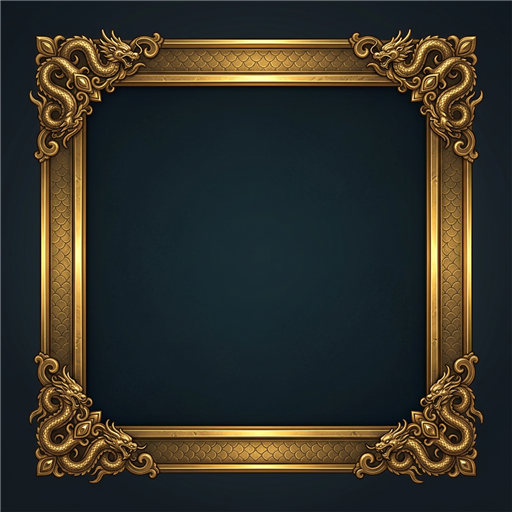
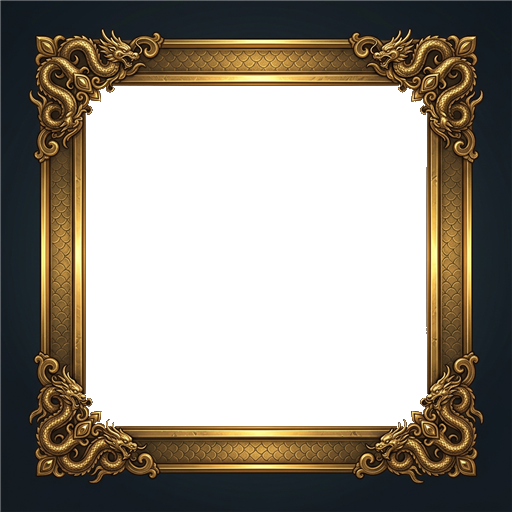
窓の枠と中身のあいだの黒い帯を消す（金枠の内側を透明に抜く）
実機指摘「中の四角と枠の間に不自然な黒が入る」。原因は色の合わせ方ではなく
frame_gold.png そのものだった。金の飾りの内側に不透明な暗色 rgb(19,32,37) が
焼き込まれており（実測：元画像 x=90〜150）、9-slice で 150→28px に縮むと
金の内側に約11pxの暗い帯になる。その内側から本体の地色 #1a2e33（上端は暖色の
光で約(44,60,60)）が始まるため、別の色どうしが出会って「もう一枚の枠」に見えていた。

・画像：中心から暗い画素だけを辿る塗りつぶしで飾りの内側を透明に抜いた。
  金の飾りが壁になり外へは漏れていないことを実測で確認（範囲 x[85,427] y[85,427]、
  左辺のアルファは x=85 まで255・x=90 から0）。飾りのきわは暗さに応じて薄めた。
・CSS：地の塗りを border-box まで広げた。padding-box のままだと抜いた輪に
  背後の暗幕が透けて逆に悪化する。
・画像URLに ?r2 を付与（index.html の ?v= は CSS 内の url には効かないため）。

枠を使うのは .navpop だけ＝ゲーム中の全モーダル窓に効く。派生の .news-clip は
border 短縮形で border-image を打ち消しており無影響（算出値で確認）。

diff --git a/index.html b/index.html
@@ -15,7 +15,7 @@
 <link rel="apple-touch-icon" href="icon.svg">
 <link rel="manifest" href="manifest.json">
 <title>ミミのドラゴンレース紀行 ／ 転生したらバニーガールだった私の汎用スキル《ぱほぱほ》だけがレベルアップな件</title>
-<link rel="stylesheet" href="style.css?v=20260804k">
+<link rel="stylesheet" href="style.css?v=20260804l">
 </head>
 <body>
 <header id="header">
@@ -63,139 +63,139 @@
   8) sim_tools.js      — debug/balance harness
   9) main.js           — entry point, wires everything
 -->
-<script src="js/utils.js?v=20260804k"></script>
+<script src="js/utils.js?v=20260804l"></script>
 <!-- ✨ ミニアニメ（傑作☆3／モール制覇／開花の瞬間に光だけ乗せる・素材が無ければ何も出ない） -->
-<script src="js/miniclip.js?v=20260804k"></script>
-<script src="js/sfx.js?v=20260804k"></script>
-<script src="js/bgm.js?v=20260804k"></script>
+<script src="js/miniclip.js?v=20260804l"></script>
+<script src="js/sfx.js?v=20260804l"></script>
+<script src="js/bgm.js?v=20260804l"></script>
 <!-- ゾーンBGM（ホーム/モール等を画面追従で自動再生・RaceBgm共有・表示専用） -->
-<script src="js/bgm_zones.js?v=20260804k"></script>
-<script src="js/data_dragons.js?v=20260804k"></script>
-<script src="js/data_courses.js?v=20260804k"></script>
-<script src="js/data_weather.js?v=20260804k"></script>
-<script src="js/data_ranks.js?v=20260804k"></script>
-<script src="js/data_assets.js?v=20260804k"></script>
-<script src="js/data_races.js?v=20260804k"></script>
-<script src="js/data_dragons_ext.js?v=20260804k"></script>
-<script src="js/state.js?v=20260804k"></script>
-<script src="js/race_engine.js?v=20260804k"></script>
-<script src="js/odds_engine.js?v=20260804k"></script>
-<script src="js/betting_engine.js?v=20260804k"></script>
-<script src="js/analysis_engine.js?v=20260804k"></script>
-<script src="js/assets_engine.js?v=20260804k"></script>
-<script src="js/lifetree_engine.js?v=20260804k"></script>
-<script src="js/recap_engine.js?v=20260804k"></script>
-<script src="js/broadcast_engine.js?v=20260804k"></script>
-<script src="js/commentary_data.js?v=20260804k"></script>
-<script src="js/commentary_engine.js?v=20260804k"></script>
-<script src="js/race_timeline_engine.js?v=20260804k"></script>
+<script src="js/bgm_zones.js?v=20260804l"></script>
+<script src="js/data_dragons.js?v=20260804l"></script>
+<script src="js/data_courses.js?v=20260804l"></script>
+<script src="js/data_weather.js?v=20260804l"></script>
+<script src="js/data_ranks.js?v=20260804l"></script>
+<script src="js/data_assets.js?v=20260804l"></script>
+<script src="js/data_races.js?v=20260804l"></script>
+<script src="js/data_dragons_ext.js?v=20260804l"></script>
+<script src="js/state.js?v=20260804l"></script>
+<script src="js/race_engine.js?v=20260804l"></script>
+<script src="js/odds_engine.js?v=20260804l"></script>
+<script src="js/betting_engine.js?v=20260804l"></script>
+<script src="js/analysis_engine.js?v=20260804l"></script>
+<script src="js/assets_engine.js?v=20260804l"></script>
+<script src="js/lifetree_engine.js?v=20260804l"></script>
+<script src="js/recap_engine.js?v=20260804l"></script>
+<script src="js/broadcast_engine.js?v=20260804l"></script>
+<script src="js/commentary_data.js?v=20260804l"></script>
+<script src="js/commentary_engine.js?v=20260804l"></script>
+<script src="js/race_timeline_engine.js?v=20260804l"></script>
 <!-- レースの出来事台帳（実況・解説・エフェクトの共通の源・表示専用） -->
 <!-- レース中の視聴者コメント（匿名のみ・演出専用／RACE_SCREEN_LIVE D2）。race_canvas.js より前に -->
-<script src="js/data_race_chat.js?v=20260804k"></script>
+<script src="js/data_race_chat.js?v=20260804l"></script>
 <!-- ゆっくり実況の解説者6人（門番つき・表示専用）。race_canvas.js より前に -->
-<script src="js/data_commentators.js?v=20260804k"></script>
-<script src="js/race_broadcast.js?v=20260804k"></script>
-<script src="js/data_broadcast_lines.js?v=20260804k"></script>
-  <script src="js/data_broadcast_rare.js?v=20260804k"></script>
-  <script src="js/data_broadcast_chatter.js?v=20260804k"></script>
-<script src="js/devcheck_broadcast.js?v=20260804k"></script>
-<script src="js/race_canvas.js?v=20260804k"></script>
-<script src="js/event_hooks.js?v=20260804k"></script>
-<script src="js/event_registry.js?v=20260804k"></script>
-<script src="js/goals.js?v=20260804k"></script>
-<script src="js/progression.js?v=20260804k"></script>
+<script src="js/data_commentators.js?v=20260804l"></script>
+<script src="js/race_broadcast.js?v=20260804l"></script>
+<script src="js/data_broadcast_lines.js?v=20260804l"></script>
+  <script src="js/data_broadcast_rare.js?v=20260804l"></script>
+  <script src="js/data_broadcast_chatter.js?v=20260804l"></script>
+<script src="js/devcheck_broadcast.js?v=20260804l"></script>
+<script src="js/race_canvas.js?v=20260804l"></script>
+<script src="js/event_hooks.js?v=20260804l"></script>
+<script src="js/event_registry.js?v=20260804l"></script>
+<script src="js/goals.js?v=20260804l"></script>
+<script src="js/progression.js?v=20260804l"></script>
 <!-- 章の「状態」の単一記述＝デバッグ章ジャンプ＋整合診断。解放ゲートの正本は data_assets.js の
      chapterAvailable のまま（ここは3つ目のゲートを作らない）。正本=docs/CHAPTER_STATE_DESIGN.md -->
-<script src="js/data_chapters.js?v=20260804k"></script>
-<script src="js/meals.js?v=20260804k"></script>
+<script src="js/data_chapters.js?v=20260804l"></script>
+<script src="js/meals.js?v=20260804l"></script>
 <!-- おなか＆お金の使い道（食費/出走ゲート・eatMeal後勝ちラップ＝meals.jsの直後・docs/HUNGER_ECONOMY_DESIGN.md） -->
-<script src="js/hunger.js?v=20260804k"></script>
+<script src="js/hunger.js?v=20260804l"></script>
 <!-- 物語の小イベント（短い挿話・進行で解放・再読可・表示専用メタ） -->
-<script src="js/data_story_events.js?v=20260804k"></script>
+<script src="js/data_story_events.js?v=20260804l"></script>
 <!-- SNS（タイムライン/ファンレター・表示専用メタ） -->
-<script src="js/sns.js?v=20260804k"></script>
+<script src="js/sns.js?v=20260804l"></script>
 <!-- 次の一手エンジン（島の一日ループの結線・docs/GAME_EXPERIENCE_DESIGN.md §3・表示専用） -->
-<script src="js/next_suggest.js?v=20260804k"></script>
-<script src="js/ui_render.js?v=20260804k"></script>
+<script src="js/next_suggest.js?v=20260804l"></script>
+<script src="js/ui_render.js?v=20260804l"></script>
 <!-- ui_render.jsからの分割（CODEMAP §6）：目標/食事＝ui_meta、暮らし系＝ui_assets -->
-<script src="js/ui_home.js?v=20260804k"></script>
-<script src="js/ui_meta.js?v=20260804k"></script>
-<script src="js/ui_assets.js?v=20260804k"></script>
+<script src="js/ui_home.js?v=20260804l"></script>
+<script src="js/ui_meta.js?v=20260804l"></script>
+<script src="js/ui_assets.js?v=20260804l"></script>
 <!-- 習い事の実地稽古：モール/島めぐりの遊びが習い事8種を育てる（§6.5・ui_assets.jsのSKILL_SHIHANの後） -->
-<script src="js/field_lessons.js?v=20260804k"></script>
+<script src="js/field_lessons.js?v=20260804l"></script>
 <!-- 🏦 島の経済（暮らし配下・終章の絶滅メーター本体もここに集約・表示専用メタ） -->
-<script src="js/ui_economy.js?v=20260804k"></script>
+<script src="js/ui_economy.js?v=20260804l"></script>
 <!-- 🏆 コレクション・やり込み（各収集の達成度＝得点＋ミニゲーム・表示専用メタ） -->
-<script src="js/ui_collection_score.js?v=20260804k"></script>
+<script src="js/ui_collection_score.js?v=20260804l"></script>
 <!-- 🎉 祝祭と触覚（S5・受け取り/的中/授与の瞬間に紙吹雪＋vibrate・完全に表示専用） -->
-<script src="js/celebrate.js?v=20260804k"></script>
+<script src="js/celebrate.js?v=20260804l"></script>
 <!-- 🌱 くらしツリーのイベント授与（22件・対応表=docs/LIFETREE_EVENT_GRANT_TABLE.md・表示/進行メタ） -->
-<script src="js/lifetree_grants.js?v=20260804k"></script>
+<script src="js/lifetree_grants.js?v=20260804l"></script>
 <!-- ✍ 紀行の記事エンジン（実プレイの出来事→読める記事・出来事駆動／実時間非依存・表示専用メタ） -->
-<script src="js/kiko_articles.js?v=20260804k"></script>
+<script src="js/kiko_articles.js?v=20260804l"></script>
 <!-- 📖 『ドラゴンレース紀行』ブログ＋📱メディアハブ（IA再編2026-07-30・表示専用メタ） -->
-<script src="js/ui_kiko.js?v=20260804k"></script>
+<script src="js/ui_kiko.js?v=20260804l"></script>
 <!-- 🏝 崑崙島 観光マップ統合ハブ（7分類で既存機能を束ねる・表示専用メタ・設定の聖典=KONRON handoff） -->
-<script src="js/konron_content.js?v=20260804k"></script>
-<script src="js/photo_game.js?v=20260804k"></script>
-<script src="js/ui_konron_map.js?v=20260804k"></script>
+<script src="js/konron_content.js?v=20260804l"></script>
+<script src="js/photo_game.js?v=20260804l"></script>
+<script src="js/ui_konron_map.js?v=20260804l"></script>
 <!-- 共通シーン基盤（canvas1枚・固定タイムステップ・レイヤ・十字キー）＋ 歩いてまわる崑崙島 -->
-<script src="js/scene_engine.js?v=20260804k"></script>
-<script src="js/scene_konron.js?v=20260804k"></script>
-<script src="js/story_reveal.js?v=20260804k"></script>
-<script src="js/ui_story.js?v=20260804k"></script>
-<script src="js/ui_sns.js?v=20260804k"></script>
+<script src="js/scene_engine.js?v=20260804l"></script>
+<script src="js/scene_konron.js?v=20260804l"></script>
+<script src="js/story_reveal.js?v=20260804l"></script>
+<script src="js/ui_story.js?v=20260804l"></script>
+<script src="js/ui_sns.js?v=20260804l"></script>
 <!-- ショッピングモール（station SQUARE風ライト・ポータル／renderMall を ui_render から移設） -->
-<script src="js/ui_mall.js?v=20260804k"></script>
-<script src="js/mall_rpg.js?v=20260804k"></script>
+<script src="js/ui_mall.js?v=20260804l"></script>
+<script src="js/mall_rpg.js?v=20260804l"></script>
 <!-- 🛗 エクスプレス：3ドア択＋ラン内ビルドの別モード（mall_rpg.js の後＝rpgAfterWin等を後勝ちフック） -->
-<script src="js/mall_express.js?v=20260804k"></script>
+<script src="js/mall_express.js?v=20260804l"></script>
 <!-- 大冒険ハブを station SQUARE 風に上書き定義（mall_rpg.js の後＝後勝ち・ロジック不変） -->
-<script src="js/ui_mall_rpg.js?v=20260804k"></script>
+<script src="js/ui_mall_rpg.js?v=20260804l"></script>
 <!-- 📖 ずかんの回転ビューア（model-viewerは外部CDNが要るので使えない＝自前・素材が無ければ1枚絵に落ちる） -->
-<script src="js/dex_view.js?v=20260804k"></script>
+<script src="js/dex_view.js?v=20260804l"></script>
 <!-- 一人称ビューの3Dレンダラ（テクスチャ質感・30fpsゲート付きで既定ON・?mall2dで従来2Dへ退避） -->
-<script src="js/mall_view_3d.js?v=20260804k"></script>
-<script src="js/dialogue.js?v=20260804k"></script>
-<script src="js/data_dialogue.js?v=20260804k"></script>
+<script src="js/mall_view_3d.js?v=20260804l"></script>
+<script src="js/dialogue.js?v=20260804l"></script>
+<script src="js/data_dialogue.js?v=20260804l"></script>
 <!-- 竜スカウト「発見＆交渉」：データ＋純ロジック（しぐさ→心情→交渉術／表示専用・docs/SCOUT_NEGOTIATION_DESIGN.md） -->
-<script src="js/data_scout.js?v=20260804k"></script>
+<script src="js/data_scout.js?v=20260804l"></script>
 <!-- 竜ごとの伝承（3段解禁の読み物・スカウト体験と図鑑コレクションの核・表示専用） -->
-<script src="js/data_dragon_lore.js?v=20260804k"></script>
-<script src="js/scout_engine.js?v=20260804k"></script>
-<script src="js/data_scout_topics.js?v=20260804k"></script>
-<script src="js/scout_game.js?v=20260804k"></script>
-<script src="js/scout_stalk.js?v=20260804k"></script>
+<script src="js/data_dragon_lore.js?v=20260804l"></script>
+<script src="js/scout_engine.js?v=20260804l"></script>
+<script src="js/data_scout_topics.js?v=20260804l"></script>
+<script src="js/scout_game.js?v=20260804l"></script>
+<script src="js/scout_stalk.js?v=20260804l"></script>
 <!-- 泣き虫竜ポロ：相棒キャラ／物語アーク／龍舎・スカウト・グルメレース解放（表示専用メタ） -->
-<script src="js/rival.js?v=20260804k"></script>
-<script src="js/poro.js?v=20260804k"></script>
+<script src="js/rival.js?v=20260804l"></script>
+<script src="js/poro.js?v=20260804l"></script>
 <!-- スカウトUI：ロケ段階ハブ（マスク）＋交渉エンカウンター（poro.js の renderScout を後勝ち上書き） -->
-<script src="js/ui_scout.js?v=20260804k"></script>
+<script src="js/ui_scout.js?v=20260804l"></script>
 <!-- ポロのグルメレース（クリア後ミニゲーム・横スクロール・表示専用） -->
-<script src="js/poro_gourmet.js?v=20260804k"></script>
+<script src="js/poro_gourmet.js?v=20260804l"></script>
 <!-- 終章（第5話セレスティア〜ED）：伏線/絶滅メーター/最終バトルレース（表示専用メタ・docs/epilogue_extinction_design.md） -->
-<script src="js/epilogue_engine.js?v=20260804k"></script>
+<script src="js/epilogue_engine.js?v=20260804l"></script>
 <!-- ☄ 神眼レース（終章M3・3頭同着パズル・独立モード＝賭け/オッズ/配当なし・epilogue_engineの演出を流用） -->
-<script src="js/shingan_race.js?v=20260804k"></script>
+<script src="js/shingan_race.js?v=20260804l"></script>
 <!-- 5章 島づくり（富を島に投資→絶滅メーター押し戻し→島テキスト進化・docs/ISLAND_INVEST_DESIGN.md・表示専用メタ） -->
-<script src="js/island.js?v=20260804k"></script>
+<script src="js/island.js?v=20260804l"></script>
 <!-- エンディング演出＆スタッフロール（表示専用・データ駆動／レース数値に非干渉） -->
-<script src="js/data_ending.js?v=20260804k"></script>
-<script src="js/ending_engine.js?v=20260804k"></script>
+<script src="js/data_ending.js?v=20260804l"></script>
+<script src="js/ending_engine.js?v=20260804l"></script>
 <!-- Live2Dリグ竜ランタイム（マスコット/レース竜用・表示専用） -->
-<script src="live2d/js/util.js?v=20260804k"></script>
-<script src="live2d/js/rig.js?v=20260804k"></script>
-<script src="live2d/js/player.js?v=20260804k"></script>
-<script src="js/dragon_live2d.js?v=20260804k"></script>
-<script src="js/sim_tools.js?v=20260804k"></script>
+<script src="live2d/js/util.js?v=20260804l"></script>
+<script src="live2d/js/rig.js?v=20260804l"></script>
+<script src="live2d/js/player.js?v=20260804l"></script>
+<script src="js/dragon_live2d.js?v=20260804l"></script>
+<script src="js/sim_tools.js?v=20260804l"></script>
 <!-- レスポンシブ自己診断（開発用・表示専用／設定デバッグの🩺から実行） -->
-<script src="js/devcheck.js?v=20260804k"></script>
+<script src="js/devcheck.js?v=20260804l"></script>
 <!-- 画面レジストリ＋直接ジャンプ（goto/rerenderCurrent/?go=・開発高速化） -->
-<script src="js/nav.js?v=20260804k"></script>
+<script src="js/nav.js?v=20260804l"></script>
 <!-- 島側の行動フックの結線（後勝ちラップのみ・既存の個別反応は不変）。
      hunger/photo_game/ui_konron_map/ui_scout より後＝それらのラッパの外側になる。
      正本=docs/REWARD_LOOP_DESIGN.md -->
-<script src="js/action_hooks.js?v=20260804k"></script>
-<script src="js/main.js?v=20260804k"></script>
+<script src="js/action_hooks.js?v=20260804l"></script>
+<script src="js/main.js?v=20260804l"></script>
 </body>
 </html>

diff --git a/style.css b/style.css
@@ -9727,10 +9727,21 @@ body:has(#app.lr-page)::after, body.title-mode::after { display: none; }
   position: relative;
   border-radius: var(--r-0);              /* 四隅の形はフレームの絵が担う */
   border: 28px solid transparent;
-  border-image: url("images/ui/frame_gold.png") 150 / 28px stretch;
-  background-clip: padding-box;           /* 地の塗りを枠の下に漏らさない */
-  /* ★地色は枠の絵の内側の実色に合わせる（旧plate=紫寄りの暗色だと色相が違い、
-     枠との出会いに継ぎ目が見えて「二重の枠」に読めた＝ユーザー診断どおり境界の問題）。 */
+  /* ?r2 は画像の版。index.html の ?v= は画像には効かない（CSS内のurlは別物）ので、
+     絵を差し替えたときはこの印を進めて古いキャッシュを外す。 */
+  border-image: url("images/ui/frame_gold.png?r2") 150 / 28px stretch;
+  /* ★「中の四角と枠のあいだに黒が入る」の解消（2026-08-04・実機指摘）。
+     原因は色の合わせ方ではなく、frame_gold.png そのものだった。金の飾りの内側に
+     不透明な暗色 rgb(19,32,37) が焼き込まれており（実測：元画像 x=90〜150）、
+     9-slice で 150→28px に縮むと金の内側に約11pxの暗い帯として現れる。
+     その内側から本体の地色 #1a2e33（上端は暖色の光で約(44,60,60)）が始まるので、
+     別の色どうしが出会って「もう一枚の枠」に見えていた。
+     → 画像側は飾りの内側を透明に抜き（tools 経由で加工・中心から塗りつぶし）、
+       CSS側は地の塗りを border-box まで広げる。これで地色が中心から金の飾りの
+       真下まで途切れず続き、帯そのものが無くなる。
+       ※ padding-box のままだと、抜いた輪の部分に背後の暗幕が透けて逆に悪化する。 */
+  background-clip: border-box;
+  /* 地色は枠の絵の内側の実色に合わせてある（紫寄りの旧plateだと色相が違って継ぎ目が出る）。 */
   background-image:
     linear-gradient(180deg, rgba(255,224,160,.08), rgba(255,224,160,0) 64px),
     radial-gradient(140% 120% at 50% 46%, var(--frame-in-1), var(--frame-in-2) 78%);
